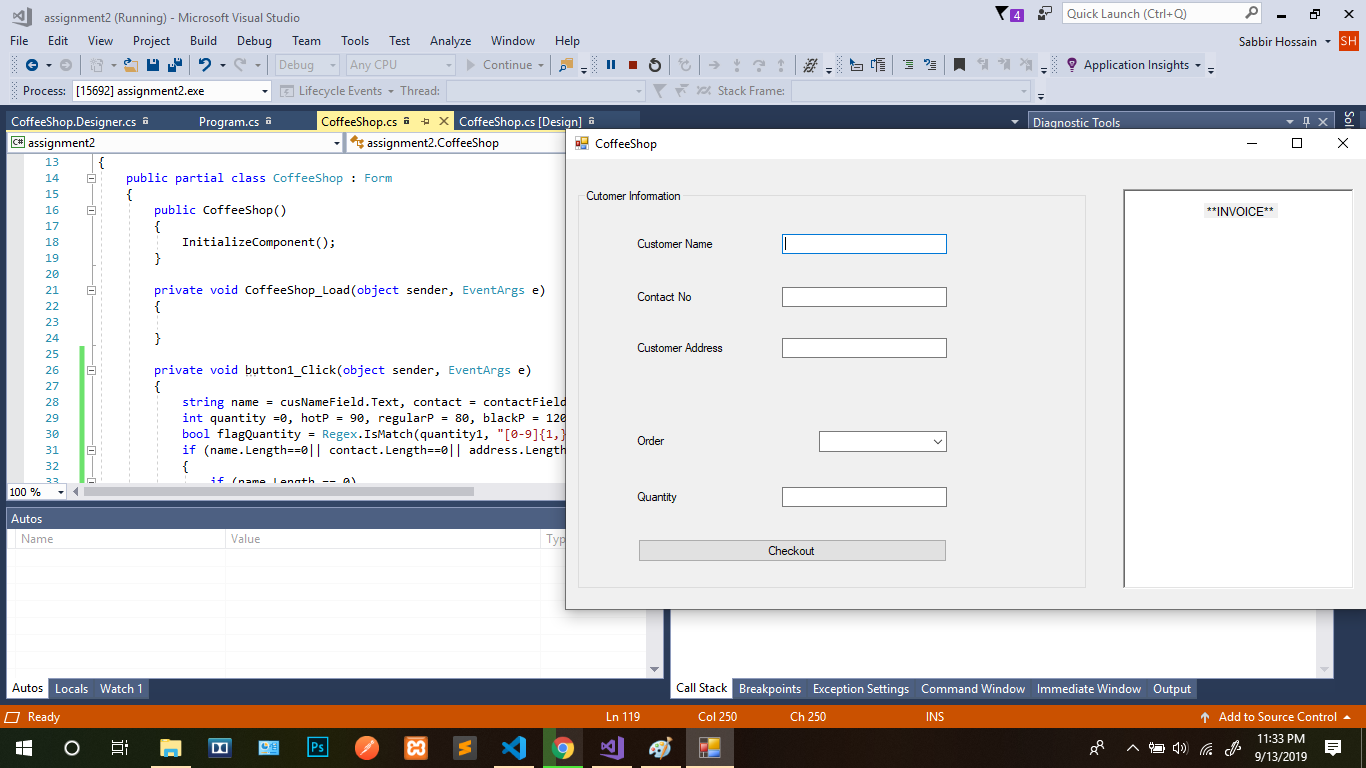
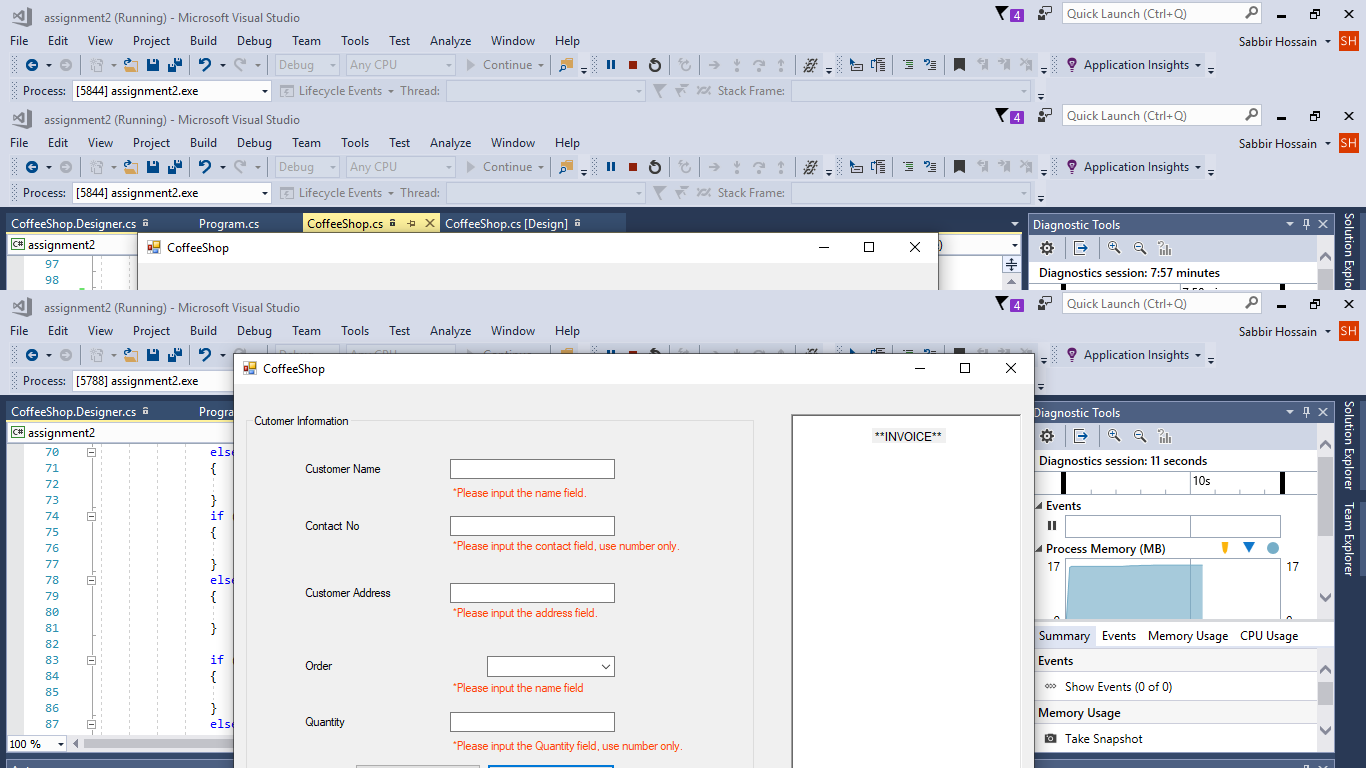
Assignment4

diff --git a/assignment2/CoffeeShop.cs b/assignment2/CoffeeShop.cs
@@ -11,29 +11,14 @@ using System.Windows.Forms;
 
 namespace assignment2
 {
-    struct Invoice
-    {
-        public string name;
-        public string contact;
-        public string address;
-        public string orderItem;
-        public int quantity;
-        public int totalPrice;
-        public int unitPrice;
-    };
+
     public partial class CoffeeShop : Form
     {
-        Invoice[] cusInvoice = new Invoice[100];
-        string[] name_arr = new string[100];
-        string[] contact_arr = new string[100];
-        string[] address_arr = new string[100];
-        string[] orderItem_arr = new string[100];
-        int[] quantity_arr = new int[100];
-        int[] totalPrice_arr = new int[100];
-        int[] unitPrice_arr = new int[100];
+        string fullMeggage;
+        List<string> contacts = new List<string> { };
+        List<string> customerInformations = new List<string> { };
 
-        int index=0;
-        
+
         public CoffeeShop()
         {
             InitializeComponent();
@@ -44,14 +29,12 @@ namespace assignment2
 
         }
 
-        private void button1_Click(object sender, EventArgs e)
+        private void saveButton_Click(object sender, EventArgs e)
         {
-            int[] age = new int[10];
-            string[] name1 = new string[] { "Ali", "Asif", "Kamal" };
-
+          
             string name = cusNameTextBox.Text, contact = contactTextBox.Text, address = addressTextBox.Text, order = orderComboBox.Text, quantity1 = quantityTextBox.Text;
-            int quantity =0, hotP = 90, regularP = 80, blackP = 120, coldP = 100, price;
-            bool flagQuantity = Regex.IsMatch(quantity1, "[0-9]{1,}$"), flagContact = Regex.IsMatch(contact, "[0-9]{11,11}$"),pivCon=true,pivQuan=true;
+            int quantity =0, hotP = 90, regularP = 80, blackP = 120, coldP = 100, price,productPrice;
+            bool flagQuantity = Regex.IsMatch(quantity1, "[0-9]{1,}$"), flagContact = Regex.IsMatch(contact, "[0-9]{11,11}$");
             if (name.Length==0|| contact.Length==0|| address.Length == 0 || order.Length == 0 || quantity1.Length == 0|| flagQuantity==false|| flagContact==false)
             {
                 if (name.Length == 0)
@@ -113,63 +96,85 @@ namespace assignment2
                         alertQuantity.Text = "";
                     }
                 }
-
+           
             }
 
             else
             {
                 quantity = Convert.ToInt32(quantity1);
 
-
+                alertName.Text = alertContact.Text = alertAddress.Text = alertOrder.Text = alertQuantity.Text = "";
                 if (order.Equals("Black"))
                 {
                     price = blackP * quantity;
-                    cusInvoice[index].unitPrice = blackP;
-                    unitPrice_arr[index] = blackP;
+                    productPrice = blackP;
                 }
                 else if (order.Equals("Cold"))
                 {
                     price = coldP * quantity;
-                    cusInvoice[index].unitPrice = coldP;
-                    unitPrice_arr[index] = coldP;
+                    productPrice = coldP;
 
                 }
                 else if (order.Equals("Hot"))
                 {
                     price = hotP * quantity;
-                    cusInvoice[index].unitPrice = hotP;
-                    unitPrice_arr[index] = hotP;
+                    productPrice = hotP;
 
                 }
                 else
                 {
                     price = regularP * quantity;
-                    cusInvoice[index].unitPrice = regularP;
-                    unitPrice_arr[index] = regularP;
+                    productPrice = regularP;
                 }
-                cusInvoice[index].name = name;
-                cusInvoice[index].contact = contact;
-                cusInvoice[index].address = address;
-                cusInvoice[index].orderItem = order;
-                cusInvoice[index].quantity = quantity;
-                cusInvoice[index].totalPrice = price;
 
-                name_arr[index] = name;
-                contact_arr[index] = contact;
-                address_arr[index] = address;
-                orderItem_arr[index] = order;
-                quantity_arr[index] = quantity;
-                totalPrice_arr[index] = price;
+                contacts.Add(contact);
+                string allInfo= "\n\n\n\n  Name : " + name + "\n  Contact Number : " + contact + "\n  Address : " + address + "\n  Order Item : " + order + "\n  Quantity : " + quantity + "\n  Total Price  (" + quantity + "*" + productPrice + ") : " + price;
 
-                //invoiceRichBox.Text += "\n\n\n\n\n  Name\t\t: " + cusInvoice[index].name + "\n  Contact Number  : " + cusInvoice[index].contact + "\n  Address\t\t: " + cusInvoice[index].address + "\n  Order Item\t   :\t" + cusInvoice[index].orderItem + "\n  Quantity\t\t:\t" + cusInvoice[index].quantity + "\n  Total Price  (" + cusInvoice[index].quantity + "*" + cusInvoice[index].unitPrice + "):\t\t" + cusInvoice[index].totalPrice;
-                invoiceRichBox.Text += "\n\n\n\n\n  Name : " + name_arr[index] + "\n  Contact Number : " + contact_arr[index] + "\n  Address : " + address_arr[index] + "\n  Order Item : " + orderItem_arr[index] + "\n  Quantity : " + quantity_arr[index] + "\n  Total Price  (" + quantity_arr[index] + "*" + unitPrice_arr[index] + ") : " + totalPrice_arr[index];
+                customerInformations.Add(allInfo);
+                invoiceRichBox.Text =allInfo;
 
-                index++;
+           
                 cusNameTextBox.Text = contactTextBox.Text = addressTextBox.Text = orderComboBox.Text = quantityTextBox.Text = "";
             }
            
         }
 
+        private void contactTextBox_TextChanged(object sender, EventArgs e)
+        {
+            int pivot=0;
+            bool flagContact1 = Regex.IsMatch(contactTextBox.Text, "[0-9]{11,11}$");
+            if (flagContact1)
+            {
+                foreach(string contact in contacts)
+                {
+                    if (contact.Equals(contactTextBox.Text))
+                    {
+                        pivot = 1;
+                    }
+                }
+                if (pivot == 1)
+                {
+                    alertContact.Text = "*Invalid number! This number has already used.\nPlease try again with unique one.";
+                    return;
+                }
+                else
+                {
+                    alertContact.Text = "";
+                    return;
+                }
+
+            }
+        }
+
+        private void showButton_Click(object sender, EventArgs e)
+        {
+            fullMeggage = "";
+            foreach( string customerInformation in customerInformations)
+            {
+                fullMeggage  += customerInformation;
+            }
+            invoiceRichBox.Text = fullMeggage;
+        }
 
     }
 }

diff --git a/assignment2/CoffeeShop.Designer.cs b/assignment2/CoffeeShop.Designer.cs
@@ -29,6 +29,7 @@
         private void InitializeComponent()
         {
             this.groupBox = new System.Windows.Forms.GroupBox();
+            this.showButton = new System.Windows.Forms.Button();
             this.alertQuantity = new System.Windows.Forms.Label();
             this.alertOrder = new System.Windows.Forms.Label();
             this.alertAddress = new System.Windows.Forms.Label();
@@ -52,6 +53,7 @@
             // 
             // groupBox
             // 
+            this.groupBox.Controls.Add(this.showButton);
             this.groupBox.Controls.Add(this.alertQuantity);
             this.groupBox.Controls.Add(this.alertOrder);
             this.groupBox.Controls.Add(this.alertAddress);
@@ -74,6 +76,16 @@
             this.groupBox.TabIndex = 0;
             this.groupBox.TabStop = false;
             this.groupBox.Text = "Cutomer Information";
+            // 
+            // showButton
+            // 
+            this.showButton.Location = new System.Drawing.Point(109, 350);
+            this.showButton.Name = "showButton";
+            this.showButton.Size = new System.Drawing.Size(126, 23);
+            this.showButton.TabIndex = 16;
+            this.showButton.Text = "Show";
+            this.showButton.UseVisualStyleBackColor = true;
+            this.showButton.Click += new System.EventHandler(this.showButton_Click);
             // 
             // alertQuantity
             // 
@@ -98,10 +110,11 @@
             // 
             this.alertAddress.AutoSize = true;
             this.alertAddress.ForeColor = System.Drawing.Color.OrangeRed;
-            this.alertAddress.Location = new System.Drawing.Point(204, 176);
+            this.alertAddress.Location = new System.Drawing.Point(204, 192);
             this.alertAddress.Name = "alertAddress";
-            this.alertAddress.Size = new System.Drawing.Size(0, 13);
+            this.alertAddress.Size = new System.Drawing.Size(41, 13);
             this.alertAddress.TabIndex = 13;
+            
             // 
             // alertContact
             // 
@@ -123,13 +136,13 @@
             // 
             // saveButton
             // 
-            this.saveButton.Location = new System.Drawing.Point(60, 350);
+            this.saveButton.Location = new System.Drawing.Point(241, 350);
             this.saveButton.Name = "saveButton";
-            this.saveButton.Size = new System.Drawing.Size(309, 23);
+            this.saveButton.Size = new System.Drawing.Size(128, 23);
             this.saveButton.TabIndex = 10;
-            this.saveButton.Text = "Checkout";
+            this.saveButton.Text = "Add";
             this.saveButton.UseVisualStyleBackColor = true;
-            this.saveButton.Click += new System.EventHandler(this.button1_Click);
+            this.saveButton.Click += new System.EventHandler(this.saveButton_Click);
             // 
             // orderComboBox
             // 
@@ -153,17 +166,18 @@
             // 
             // addressTextBox
             // 
-            this.addressTextBox.Location = new System.Drawing.Point(204, 149);
+            this.addressTextBox.Location = new System.Drawing.Point(204, 169);
             this.addressTextBox.Name = "addressTextBox";
             this.addressTextBox.Size = new System.Drawing.Size(165, 20);
             this.addressTextBox.TabIndex = 7;
             // 
             // contactTextBox
             // 
-            this.contactTextBox.Location = new System.Drawing.Point(204, 98);
+            this.contactTextBox.Location = new System.Drawing.Point(204, 102);
             this.contactTextBox.Name = "contactTextBox";
             this.contactTextBox.Size = new System.Drawing.Size(165, 20);
             this.contactTextBox.TabIndex = 6;
+            this.contactTextBox.TextChanged += new System.EventHandler(this.contactTextBox_TextChanged);
             // 
             // cusNameTextBox
             // 
@@ -193,7 +207,7 @@
             // label3
             // 
             this.label3.AutoSize = true;
-            this.label3.Location = new System.Drawing.Point(57, 152);
+            this.label3.Location = new System.Drawing.Point(57, 172);
             this.label3.Name = "label3";
             this.label3.Size = new System.Drawing.Size(92, 13);
             this.label3.TabIndex = 2;
@@ -202,7 +216,7 @@
             // label2
             // 
             this.label2.AutoSize = true;
-            this.label2.Location = new System.Drawing.Point(57, 101);
+            this.label2.Location = new System.Drawing.Point(57, 105);
             this.label2.Name = "label2";
             this.label2.Size = new System.Drawing.Size(61, 13);
             this.label2.TabIndex = 1;
@@ -275,6 +289,7 @@
         private System.Windows.Forms.Label alertAddress;
         private System.Windows.Forms.Label alertContact;
         private System.Windows.Forms.Label alertName;
+        private System.Windows.Forms.Button showButton;
     }
 }
 
